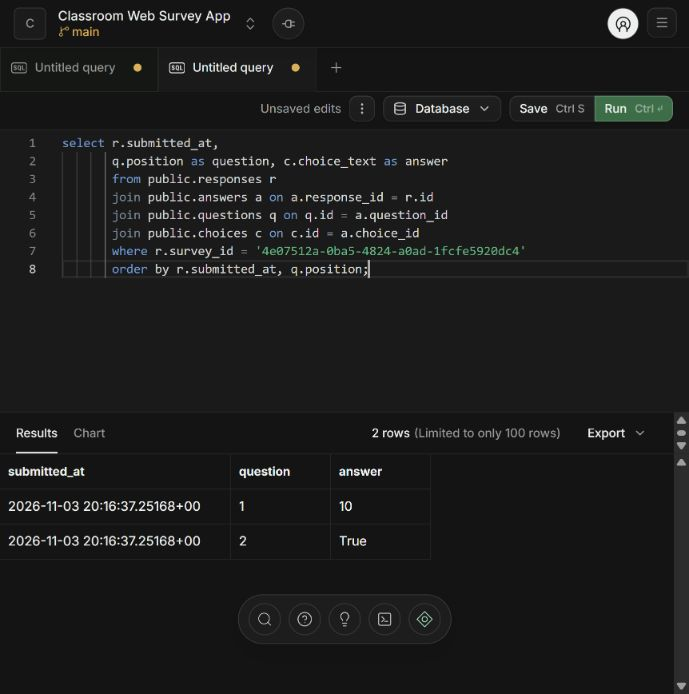
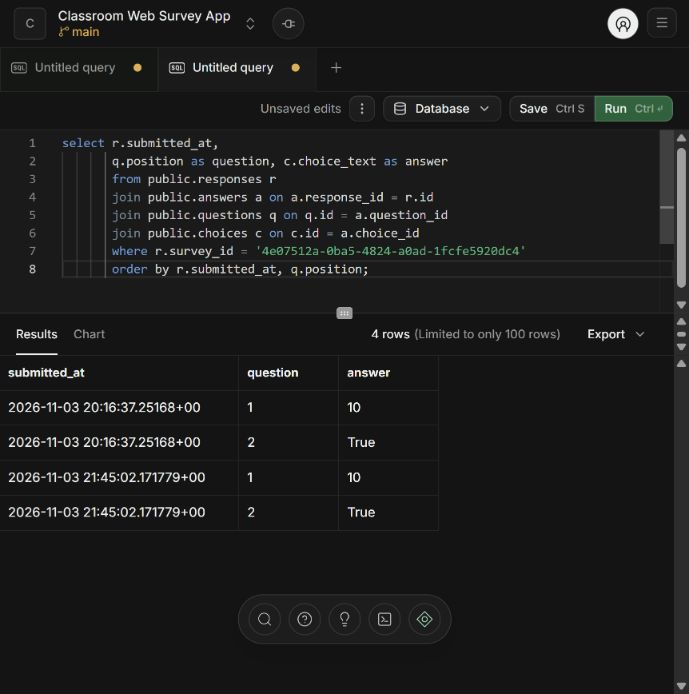
docs: record production verification and submission evidence

diff --git a/submission/README.md b/submission/README.md
@@ -1,9 +1,9 @@
 # Submission package
 
-Status: draft package. Public deployment, grader access and evidence screenshots must be completed before submission. Do not submit this checklist as proof that pending work passed.
+Status: public deployment and the four evidence screenshots are verified. The development report needs student review; phone verification and private grader access are tracked below. Do not submit pending checks as proof of success.
 
 - GitHub: https://github.com/nebraassattar/Classroom-Survey-Web-App
-- Public app: pending deployment verification.
+- Public app: https://classroom-survey-web-app.nesattar786.workers.dev
 - Development report: `DEVELOPMENT_SUMMARY.md` (review the draft, especially deployment and personal learning).
 - AI interaction history: `AI_HISTORY.md`, with the detailed chronology in `../DEVELOPMENT_LOG.md`.
 - Database schema: `../supabase/migrations/`.
@@ -11,23 +11,23 @@ Status: draft package. Public deployment, grader access and evidence screenshots
 
 ## Private grader access
 
-Provision a separate grader instructor through the Supabase dashboard and add its Auth UUID to `private.instructors` using the administrative instructions in `../supabase/README.md`. Keep public signup disabled. Test that account privately on the deployed app. Provide the app URL and access instructions/password only through the private HuskyCT submission channel or an instructor-approved private method. Never put credentials in this folder, GitHub, screenshots, the report or AI history. A separate account can be revoked after grading without changing the owner's login.
+User selected a separate grader account on 2026-11-03; provisioning is still pending. Create the grader instructor privately through the Supabase dashboard and add its Auth UUID to `private.instructors` using the administrative instructions in `../supabase/README.md`. Keep public signup disabled. Test that account privately on the deployed app. Provide the app URL and access instructions/password only through the private HuskyCT submission channel or an instructor-approved private method. Never put credentials in this folder, GitHub, screenshots, the report or AI history. A separate account can be revoked after grading without changing the owner's login.
 
 ## Required real screenshots
 
-Save sanitized PNGs in `evidence/` after inspecting them. None have been captured for this package yet.
+Actual sanitized screenshots were captured and inspected on 2026-11-03. Browser screenshots are JPEGs. See [evidence index](evidence/README.md).
 
-1. `01-database-tables.png`: Supabase showing all five public tables and their names.
-2. `02-survey-questions.png`: a real stored survey with its associated questions; use safe SQL result columns if one Table Editor view cannot show the relationship.
-3. `03-stored-responses.png`: real responses with related answer rows. Omit `anonymous_token` and all Auth data.
-4. `04-app-results.png`: the corresponding survey's counts and percentages in the deployed app.
+1. `01-database-tables.jpg`: Supabase showing all five public tables and their names.
+2. `02-survey-questions.jpg`: a real stored survey with its associated questions; use safe SQL result columns if one Table Editor view cannot show the relationship.
+3. `03-stored-responses.jpg`: real responses with related answer rows. Omit `anonymous_token` and all Auth data.
+4. `04-app-results.jpg`: the corresponding survey's counts and percentages in the deployed app.
 
 Use a disposable test survey with non-personal choices. Include survey identifiers/title only as needed to connect the evidence. Exclude passwords, keys, browser storage, session tokens, private email addresses and private student data. Screenshots must be actual application/database views, not generated illustrations.
 
 ## Final user checks
 
-- Scan the deployed QR on a physical phone and submit once.
-- Verify stored answers, count, CSV import in a spreadsheet and duplicate prevention after refresh.
+- Scan the deployed QR on a physical phone and submit once (user deferred this check until later).
+- Stored answers/count, production CSV, Excel import and duplicate refresh passed at the recorded checkpoint. Recheck after any further changes.
 - Check another browser engine and keyboard behavior; record exact device/browser outcomes.
 - Review the report in your own words and explain the five-table data flow.
 - Fill the public URL and private grader instructions in the HuskyCT submission, attach the report/history/evidence and submit yourself.

diff --git a/DEVELOPMENT_LOG.md b/DEVELOPMENT_LOG.md
@@ -182,3 +182,16 @@ Validation outcomes will be appended after checks finish. Browser, database, end
 - Captured actual read-only hosted SQL evidence for five tables with RLS enabled, the survey/question join, and stored response/answer/choice joins. Omitted anonymous tokens and all Auth data. An initial evidence query used created_at instead of submitted_at; corrected against the migration and verified two answer rows. No survey data changed.
 - Production-only dependency audit succeeded with zero reported vulnerabilities. The full audit reported 12 moderate development-tool dependency findings rooted in minimatch; no high/critical findings. Do not use npm audit fix --force to downgrade lint tooling blindly. This is separate from the browser runtime audit.
 - Public deployment, production instructor/student verification, final results screenshot and private grader provisioning remain pending at this preparation checkpoint.
+
+## 2026-11-03 — Production release verification
+
+- Git-integrated build for 8717fc6 completed successfully (39 seconds reported by Cloudflare). Node 24.11.0, npm run build, npx wrangler deploy and all three expected build-variable names appeared in its dashboard. Public app: https://classroom-survey-web-app.nesattar786.workers.dev.
+- Saved Supabase Site URL to the exact production origin. No additional redirect wildcard or new instructor permission was created. User signed in privately on production; the dashboard loaded. Session and both question types persisted after direct editor reload. Logout completed and a direct results link redirected to Login.
+- Public student deep link loaded anonymously in the in-app browser. Submitted one real non-personal QA response (10 and True) to the existing test survey; server-confirmed success and refreshed Already submitted state were observed. Read-only hosted SQL then showed the added response's two answers. At the evidence checkpoint, results/CSV showed two responses and four answer rows total, matching the database. No response deletion or current-survey activation/closure occurred.
+- Created production QA Draft d1d14030-27cd-4e87-8ab5-0c88b0adea3c with Multiple choice and True / False questions, saved and reopened it, then verified direct reload. It remains inactive; the prior test survey remains Active. This is an actual test record, not application placeholder data.
+- Production CSV downloaded and parsed as two data rows with expected answers, UTF-8 BOM and no anonymous/browser-token field. The earlier one-response CSV imported in real Excel using UTF-8 and comma delimiter with double-quote qualifier; headers/values were separate cells. Excel General converted True to a TRUE boolean. No original CSV was saved or rewritten; adversarial formula/Unicode cases still have parser coverage rather than exhaustive Excel verification.
+- Saved actual screenshots for five RLS-enabled table names, survey/question relationships, stored responses/answers, deployed results, public home, successful submission, QR presentation and saved draft. SQL screenshots demonstrate stored data, not role authorization by a privileged SQL Editor. Screenshots exclude tokens, credentials and private email addresses.
+- Read the displayed browser-generated QR PNG and decoded it independently with jsQR: exact production student URL, 1023x1023 pixels (the requested 1024 width is aligned by the browser QR renderer). This is software decoding, not a physical phone scan. Public home/login/student/protected/unknown direct routes passed SPA handling.
+- User was asked to perform a physical phone check and select a private grader-access method. These and personal report review remain user-owned gates; no new account or password was created. Cross-engine, screen-reader/contrast, real multi-session race tests and specified load/time targets remain unverified. No HuskyCT submission was made.
+
+- User explicitly deferred the physical-phone check until later and chose to provision a separate grader account personally. Keep these tasks unchecked; no grader credentials were created, collected or published. The report remains a student-review draft, and HuskyCT submission is user-owned. Final release documentation/evidence are being committed and pushed without claiming the outstanding verification gates passed.

diff --git a/TODO.md b/TODO.md
@@ -2,7 +2,7 @@
 
 ## Audit status — 2026-11-03
 
-The starting workspace contained only five specification files, without application code or Git history. Inherited checks were reset. Phases 1–10 (including the Phase 8 duplicate foundation) are committed/pushed. Real login, draft/editor/presentation, student and date-filter workflows are user-reported successful; detailed results/evidence checks remain pending. Combined 11–12 CSV/duplication is implemented/tested locally. Hosted export migration, browser/spreadsheet review, final polish/testing, deployment and evidence remain pending.
+Phases 1–14 are implemented and pushed, with verification limits recorded in DEVELOPMENT_LOG.md. Cloudflare Workers static-asset deployment is live and tested against hosted Supabase. Production Auth, draft persistence, anonymous submission/duplicate refresh, results, CSV and QR destination passed; required database/results screenshots and report/history drafts are included. Physical-device, private grader/report review, cross-engine/accessibility and concurrency/performance gates remain open. Phase 15 uses the Worker the user created instead of creating an additional Pages site.
 
 User-approved remaining batches: 11–12 CSV plus duplication verification; 13–14 polish plus full testing; 15 deployment plus submission. Phase 16 is excluded.
 
@@ -248,7 +248,7 @@ Implemented locally using a new instructor-only snapshot RPC. Apply only `202611
 - [x] Verify parser round-trip, export errors, permissions and token exclusion automatically.
 - [x] Hosted export RPC installation confirmed by successful instructor export on 2026-11-03.
 - [x] Verify real Chrome download and matching response values through instructor-only hosted RPC (2026-11-03).
-- [ ] Test export with spreadsheet applications.
+- [x] Import the downloaded CSV in Excel using UTF-8 and comma delimiters (default General converts True to TRUE).
 
 ---
 
@@ -284,7 +284,7 @@ Implemented and regression-tested. Browser checks cover narrow public/dashboard/
 
 # Phase 14 — Testing
 
-Checked items have automated coverage and/or recorded user reports; they do not imply every hosted/browser scenario passed. Current batch: 116 app tests and 104 embedded database assertions. Cross-engine, spreadsheet, physical-device, real concurrency and performance gates remain open in VERIFICATION.md.
+Checked items have automated coverage and/or recorded user reports; they do not imply every hosted/browser scenario passed. Current batch: 116 app tests and 104 embedded database assertions. Cross-engine, physical-device, assistive-technology, real concurrency and performance gates remain open in VERIFICATION.md.
 
 - [x] Test instructor login (component-tested and user-confirmed with real account).
 - [x] Test survey creation.
@@ -303,20 +303,26 @@ Checked items have automated coverage and/or recorded user reports; they do not 
 
 ---
 
-# Phase 15 — Deployment
+# Phase 15 — Deployment and Submission
 
 - [x] Push the project to GitHub.
-- [ ] Create the Cloudflare Pages site.
-- [ ] Connect Cloudflare Pages to the GitHub repository.
-- [ ] Configure production environment variables.
-- [ ] Deploy the application.
-- [ ] Configure SPA routing.
-- [ ] Verify production login.
-- [ ] Verify QR codes point to the production URL.
-- [ ] Test student submissions in production.
-- [ ] Test instructor results in production.
+- [x] Create the Cloudflare service (user created Workers static assets instead of Pages).
+- [x] Connect the Cloudflare Worker to the GitHub repository.
+- [x] Configure production environment variables.
+- [x] Deploy the application.
+- [x] Configure SPA routing.
+- [x] Verify production login.
+- [x] Verify QR codes point to the production URL.
+- [x] Test student submissions in production.
+- [x] Test instructor results in production.
 
 ---
+
+- [x] Capture four sanitized database/application evidence screenshots.
+- [x] Prepare development-summary and AI-history drafts.
+- [ ] Complete physical-phone QR/submission verification (user deferred until later).
+- [ ] User will provision a separate grader account and provide credentials privately.
+- [ ] Review/personalize the report and submit through HuskyCT.
 
 # Phase 16 — Post-MVP Enhancements
 

diff --git a/submission/DEVELOPMENT_SUMMARY.md b/submission/DEVELOPMENT_SUMMARY.md
@@ -1,6 +1,6 @@
 # Classroom Survey Web App — development summary
 
-Draft for student review, 2026-11-03. Deployment is still pending. Replace the deployment paragraph with the verified outcome and personalize the final paragraph before submission. This report summarizes recorded work; it does not replace the required screenshots.
+Draft for student review, 2026-11-03. Deployment has been verified; personalize the final learning paragraph before submission. This report summarizes recorded work; it does not replace the required screenshots.
 
 ## Specifications and AI collaboration
 
@@ -24,6 +24,6 @@ One practical problem was that the initial Vite generator could not resolve the 
 
 ## Deployment and learning
 
-Deployment preparation uses Cloudflare Workers static assets, following the service created in the dashboard, using the GitHub `main` branch, `npm run build`, and the `dist` directory with explicit SPA fallback in `wrangler.json`. Node is pinned to the tested version. Production build variables must point to the existing Supabase project and the final public HTTPS origin, and Supabase Auth URL settings must match that origin. The public deployment URL, production workflow test and required evidence screenshots are still pending at the time of this draft.
+Deployment preparation uses Cloudflare Workers static assets, following the service created in the dashboard, using the GitHub `main` branch, `npm run build`, and the `dist` directory with explicit SPA fallback in `wrangler.json`. Node is pinned to the tested version. Production build variables must point to the existing Supabase project and the final public HTTPS origin, and Supabase Auth URL settings must match that origin. The public app is https://classroom-survey-web-app.nesattar786.workers.dev. The Git-integrated deployment succeeded. Production checks verified instructor login/refresh/logout, saved draft persistence, an anonymous response, duplicate refresh, stored answers and matching results/CSV. The deployed QR image decoded to the public origin. Four real database/application screenshots are included under submission/evidence; physical phone and performance checks are tracked separately.
 
-The project illustrates how frontend state differs from persistent database state, how primary/foreign keys preserve relationships, and why frontend route protection must be backed by database authorization. It also shows why AI-generated code needs tests and actual browser verification. Before submitting, I will describe in my own words which of these lessons I learned, confirm the final deployment outcome, and review the implementation so I can explain the complete submission-to-results data flow.
+The project illustrates how frontend state differs from persistent database state, how primary/foreign keys preserve relationships, and why frontend route protection must be backed by database authorization. It also shows why AI-generated code needs tests and actual browser verification. Before submitting, I will describe in my own words which of these lessons I learned, review the recorded deployment outcome and the implementation so I can explain the complete submission-to-results data flow.

diff --git a/submission/AI_HISTORY.md b/submission/AI_HISTORY.md
@@ -11,6 +11,6 @@ This is a factual Markdown summary of the recorded collaboration, permitted by t
 7. **Results/history:** the agent implemented protected charts/tables, response counts, percentages and inclusive local creation-date filtering. The user reported success and requested pushes. Tests covered zero/unanswered choices, stale refresh errors, access loss and date boundaries.
 8. **Combined final feature batches:** the user asked whether phases could be combined and accepted the proposed plan. The agent implemented instructor-only snapshot CSV, safe quoting/formula text handling and expanded duplication checks, then added accessibility navigation and render-error recovery. The user signed in privately for browser QA.
 9. **Recorded verification:** 116 app tests, 104 embedded database assertions, lint, TypeScript, build and formatting passed. Read-only hosted checks verified public lookup, anonymous restrictions and disabled signup. Actual Chrome results and CSV matched one response; QR presentation and canceled close confirmation worked. At 320px, checked public/dashboard/results views had no horizontal overflow. Chrome and the in-app browser are both Chromium. Physical-device, spreadsheet, cross-engine, screen-reader, real concurrent-session and load targets remain separate pending checks.
-10. **Final phase:** the user requested committing/pushing and finishing the remaining phases. CSV/accessibility changes were pushed as `362e8c7` on 2026-11-03. Cloudflare deployment and submission preparation then began. This summary will be updated with verified deployment outcomes; it does not claim a public deployment yet.
+10. **Final phase:** the user requested committing/pushing and finishing the remaining phases. CSV/accessibility changes were pushed as `362e8c7` on 2026-11-03. The user signed in/verified Cloudflare privately and created a Git-connected Worker. The agent configured Workers static assets, SPA fallback and public build variables; commit 8717fc6 deployed successfully. Production login/refresh/logout, draft persistence, anonymous submission/duplicate refresh, results/CSV and QR destination were verified. Actual sanitized Supabase and deployed-results screenshots were saved. A downloaded CSV imported correctly in Excel with UTF-8/comma settings. No physical phone or performance pass is implied without a separately recorded result.
 
 The user must review and personalize the report, supply grader access privately, verify remaining real-device checks, and make the HuskyCT submission. No password was requested or included in the repository.

diff --git a/README.md b/README.md
@@ -3,7 +3,7 @@
 Individual CSE 4095 project built with React, TypeScript, Vite, Tailwind CSS, React Router, Supabase, Recharts and QRCode. Instructors manage surveys and view results; students answer active surveys anonymously through a public URL or QR code.
 
 - Source: https://github.com/nebraassattar/Classroom-Survey-Web-App
-- Public deployment: in progress; no public URL verified yet.
+- Public app: https://classroom-survey-web-app.nesattar786.workers.dev
 - [Deployment instructions](DEPLOYMENT.md)
 - [Submission package and evidence checklist](submission/README.md)
 
@@ -64,7 +64,7 @@ npm run check:supabase
 
 Recorded checkpoint on 2026-11-03: 116 app tests and 104 embedded database assertions passed; lint, TypeScript, build, formatting and whitespace checks passed. The production dependency audit reported zero known vulnerabilities. Hosted read-only checks confirmed public lookup, anonymous response/answer/results restrictions and disabled signup. Real signed-in Chrome results, matching downloaded CSV, QR presentation and canceled confirmation were checked. Public/dashboard/results layouts had no horizontal overflow at 320px. User-reported local feature/persistence checks are recorded separately from agent observations.
 
-Remaining checks include spreadsheet application import, physical phone/projector, another browser engine, screen-reader/contrast, production workflows, real concurrent database sessions and the 200-student/under-two-second targets. Chrome and the in-app browser are both Chromium. Axe tests cover semantics with color contrast disabled in JSDOM. Build sizes and passing tests do not prove performance targets. See [verification plan](VERIFICATION.md) and [detailed outcomes](DEVELOPMENT_LOG.md).
+Production checks passed for login, session refresh, sign-out protection, draft creation/reopen, anonymous submission and duplicate refresh, stored answers, results, CSV and public QR destination. A downloaded CSV also imported correctly in Excel with UTF-8/comma settings. Remaining checks include physical phone/projector, another browser engine, screen-reader/contrast, real concurrent database sessions and the 200-student/under-two-second targets. Chrome and the in-app browser are both Chromium. Axe tests cover semantics with color contrast disabled in JSDOM. Build sizes and passing tests do not prove performance targets. See [verification plan](VERIFICATION.md) and [detailed outcomes](DEVELOPMENT_LOG.md).
 
 ## Deploy and submit
 

diff --git a/submission/evidence/README.md b/submission/evidence/README.md
@@ -1,0 +1,18 @@
+# Actual evidence — 2026-11-03
+
+The four required views are actual screenshots, not mockups. The survey is **Copy of Test Survey** (`4e07512a-0ba5-4824-a0ad-1fcfe5920dc4`). At the matching database/results capture it had two responses, each with answers 10 and True. Later test submissions can increase the live count.
+
+- [01 — Database tables](01-database-tables.jpg): all five public domain tables and RLS enabled. Privileged SQL inspection is not a substitute for role tests.
+- [02 — Survey and questions](02-survey-questions.jpg): real survey-to-question join and ordered question text.
+- [03 — Stored responses and answers](03-stored-responses.jpg): four joined answer rows, including the production test submission at 21:45:02 UTC. No browser/anonymous token column was selected.
+- [04 — Deployed app results](04-app-results.jpg): two responses, matching charts/tables and 100% counts for 10 and True.
+
+Additional release evidence:
+
+- [05 — Public home](05-production-home.jpg)
+- [06 — Server-confirmed student submission](06-production-submission.jpg)
+- [07 — Actual production QR PNG](07-production-qr.png), independently decoded to the exact public student URL (not a physical scan)
+- [08 — Production presentation](08-production-presentation.jpg)
+- [09 — Saved production QA draft](09-production-draft.jpg), containing both supported question types and left inactive
+
+Queries used for the database screenshots are in [evidence-queries.sql](../evidence-queries.sql). Screenshots omit keys, credentials, anonymous tokens, Auth users and private student information. They show real non-personal test data. Include the four required images with the HuskyCT submission.

diff --git a/DEPLOYMENT.md b/DEPLOYMENT.md
@@ -1,6 +1,6 @@
 # Cloudflare deployment
 
-Deployment status: build configuration in progress. Assigned origin: https://classroom-survey-web-app.nesattar786.workers.dev (not yet verified). The user created a Git-connected Worker in the dashboard, so this release uses Workers static assets. Supabase remains the backend.
+Deployed and browser-verified on 2026-11-03: https://classroom-survey-web-app.nesattar786.workers.dev. Git-integrated build 8717fc6 completed successfully. The user created a Git-connected Worker in the dashboard, so this release uses Workers static assets. Supabase remains the backend.
 
 ## Build settings
 
@@ -56,3 +56,7 @@ A new Pages project can instead use the React (Vite) preset, `npm run build` and
 - [Workers static assets](https://developers.cloudflare.com/workers/static-assets/)
 - [Workers SPA routing](https://developers.cloudflare.com/workers/static-assets/routing/single-page-application/)
 - [Workers build configuration](https://developers.cloudflare.com/workers/ci-cd/builds/configuration/)
+
+## Recorded release checks — 2026-11-03
+
+Public home/student/protected/unknown deep routes passed. Private instructor login, refresh persistence and logout passed. Created and reopened a Draft containing both question types without activating it. One anonymous test submission was stored; refresh showed Already submitted. Results and production CSV matched two stored responses and four answer rows at the evidence checkpoint. The browser-generated QR PNG decoded to the exact public student URL. Supabase Site URL is saved to the production origin; no additional redirect wildcard was added. See DEVELOPMENT_LOG.md for limits and any subsequent user-reported phone check.

diff --git a/VERIFICATION.md b/VERIFICATION.md
@@ -42,3 +42,7 @@ Submission through HuskyCT must include the GitHub URL, deployed application URL
 ## 2026-11-03 verification checkpoint
 
 116 app tests and 104 embedded PostgreSQL assertions passed, along with lint, TypeScript, production build, formatting and whitespace checks. Real signed-in Chrome results/QR, CSV download and dialog cancellation passed; narrow dashboard/results/public layouts had no horizontal overflow. Chrome and the in-app browser are both Chromium, so cross-engine coverage remains pending. See DEVELOPMENT_LOG.md for exact scope, limitations and outstanding physical-device, spreadsheet, concurrency and performance checks. The current production dependency audit was blocked by registry DNS failure.
+
+## Production checkpoint — 2026-11-03
+
+Public deployment is verified at https://classroom-survey-web-app.nesattar786.workers.dev. Production login/session refresh/logout, draft creation/reopen with both question types, anonymous response/refresh protection, stored answers, results, CSV and QR URL decoding passed. Required real evidence is indexed in submission/evidence/README.md. The downloaded CSV imported successfully in Excel using UTF-8/comma settings. These observations supplement the automated checkpoint; they do not establish physical scanning, cross-engine, assistive-technology, real concurrent-session or performance coverage.
